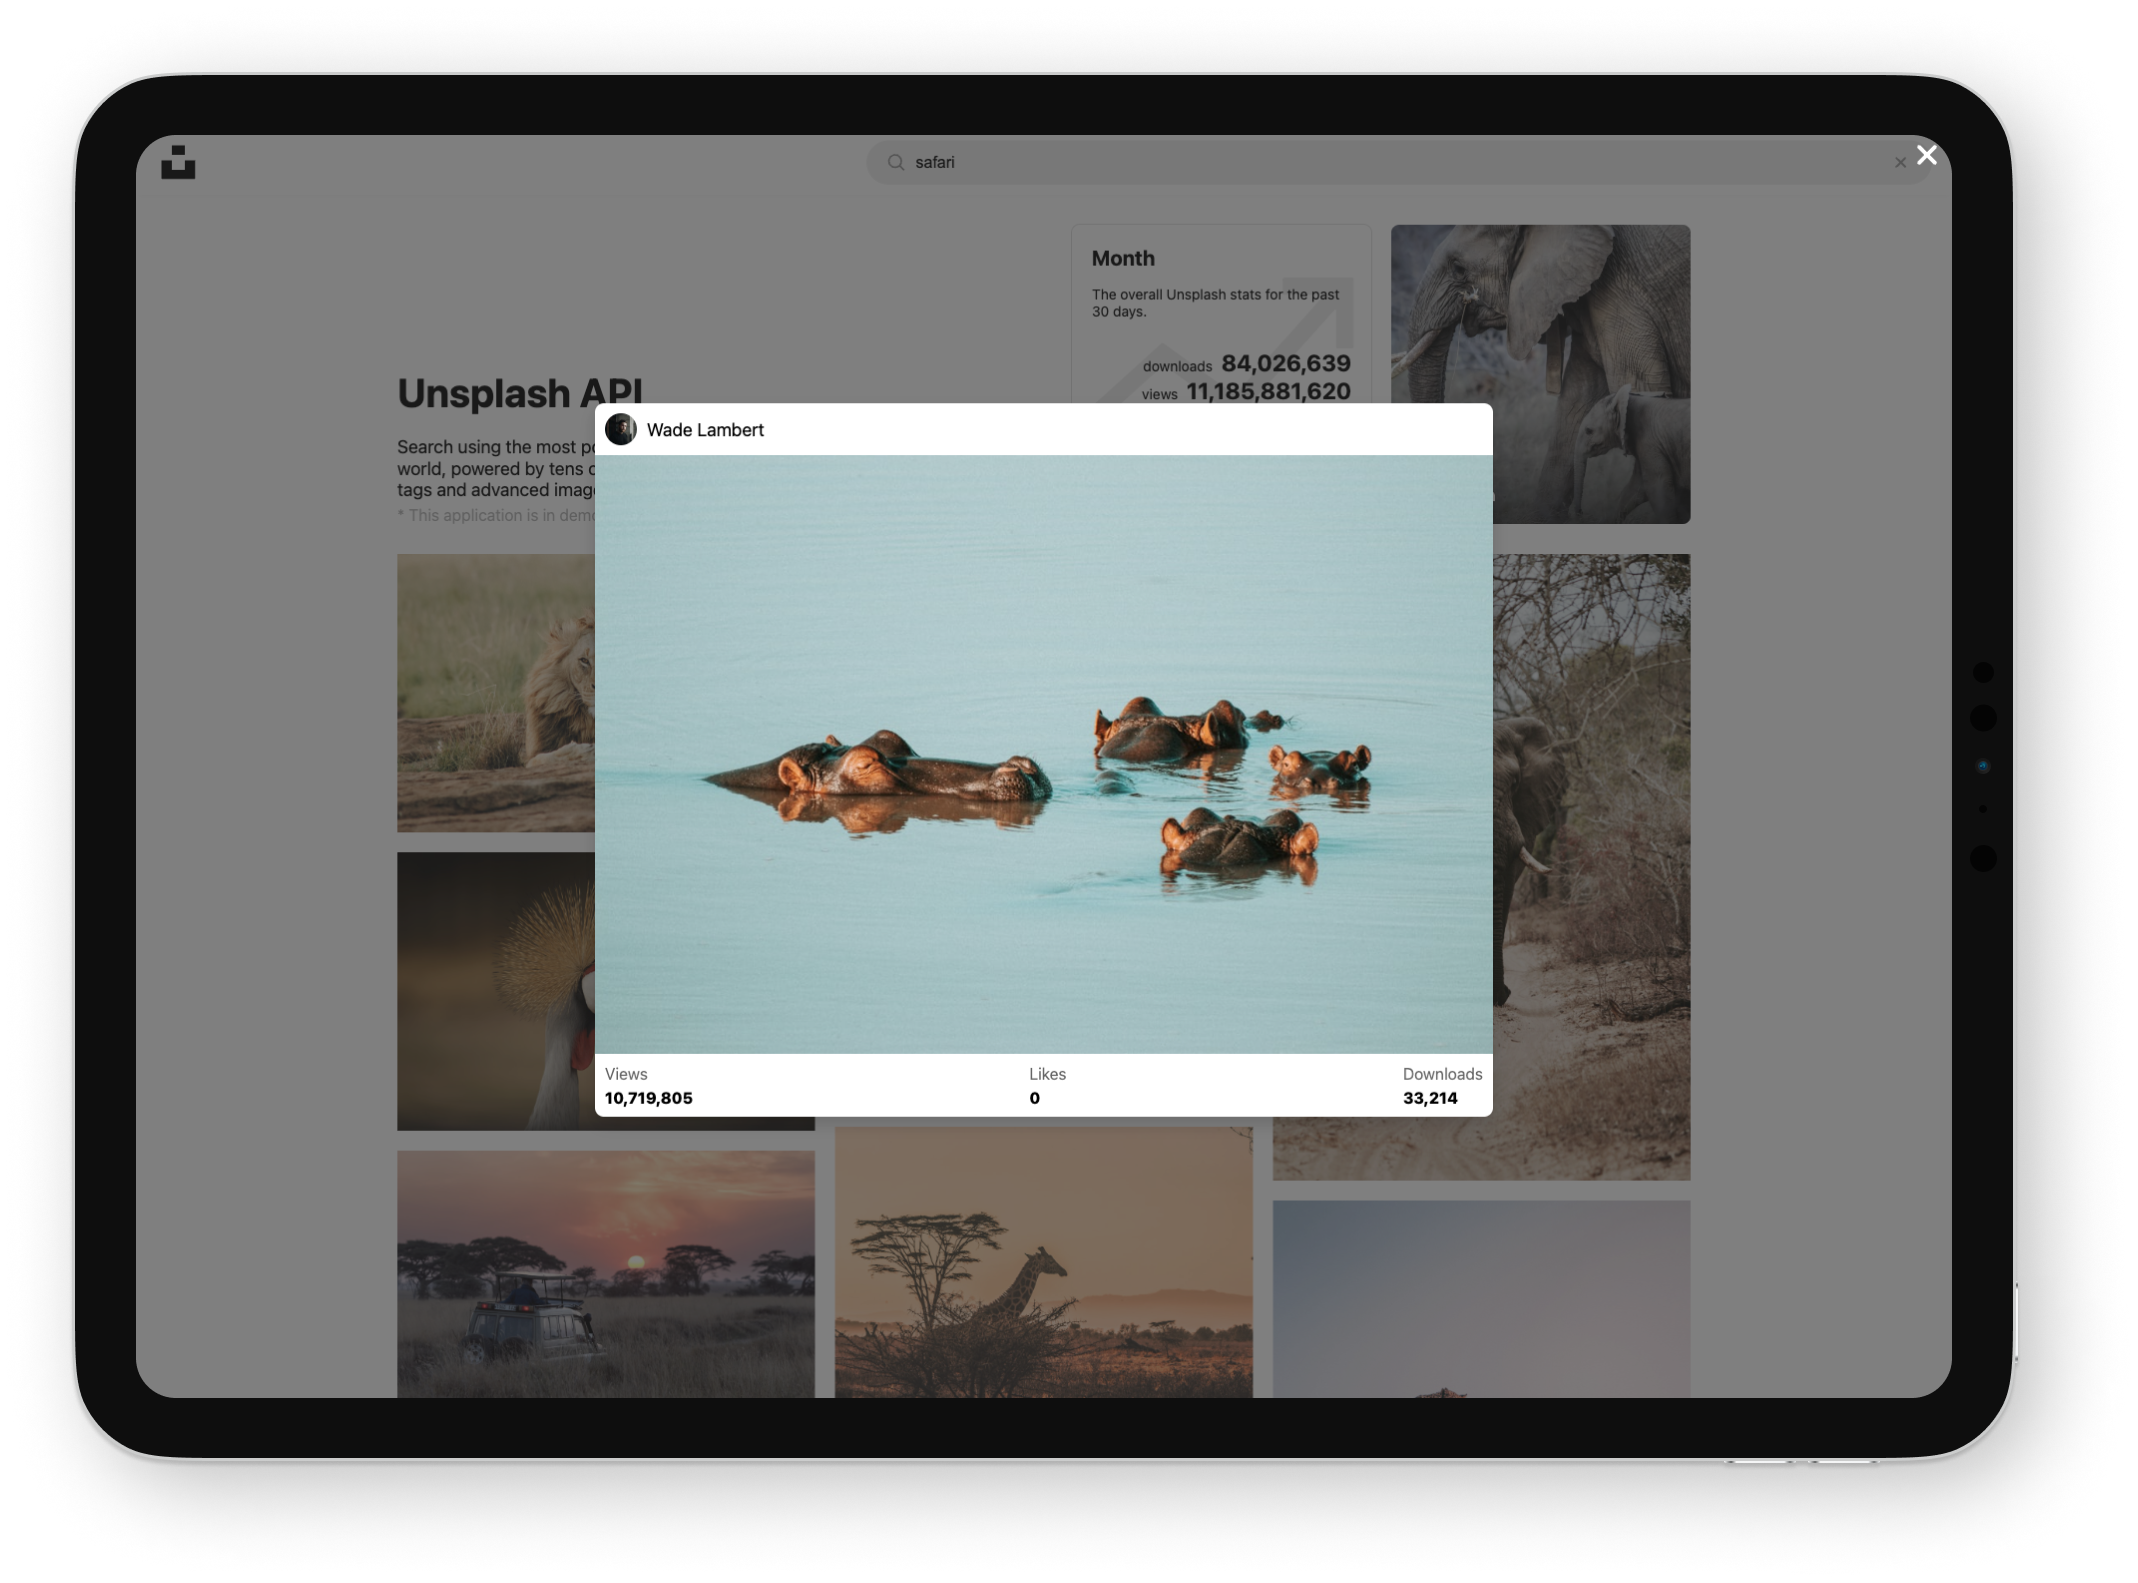
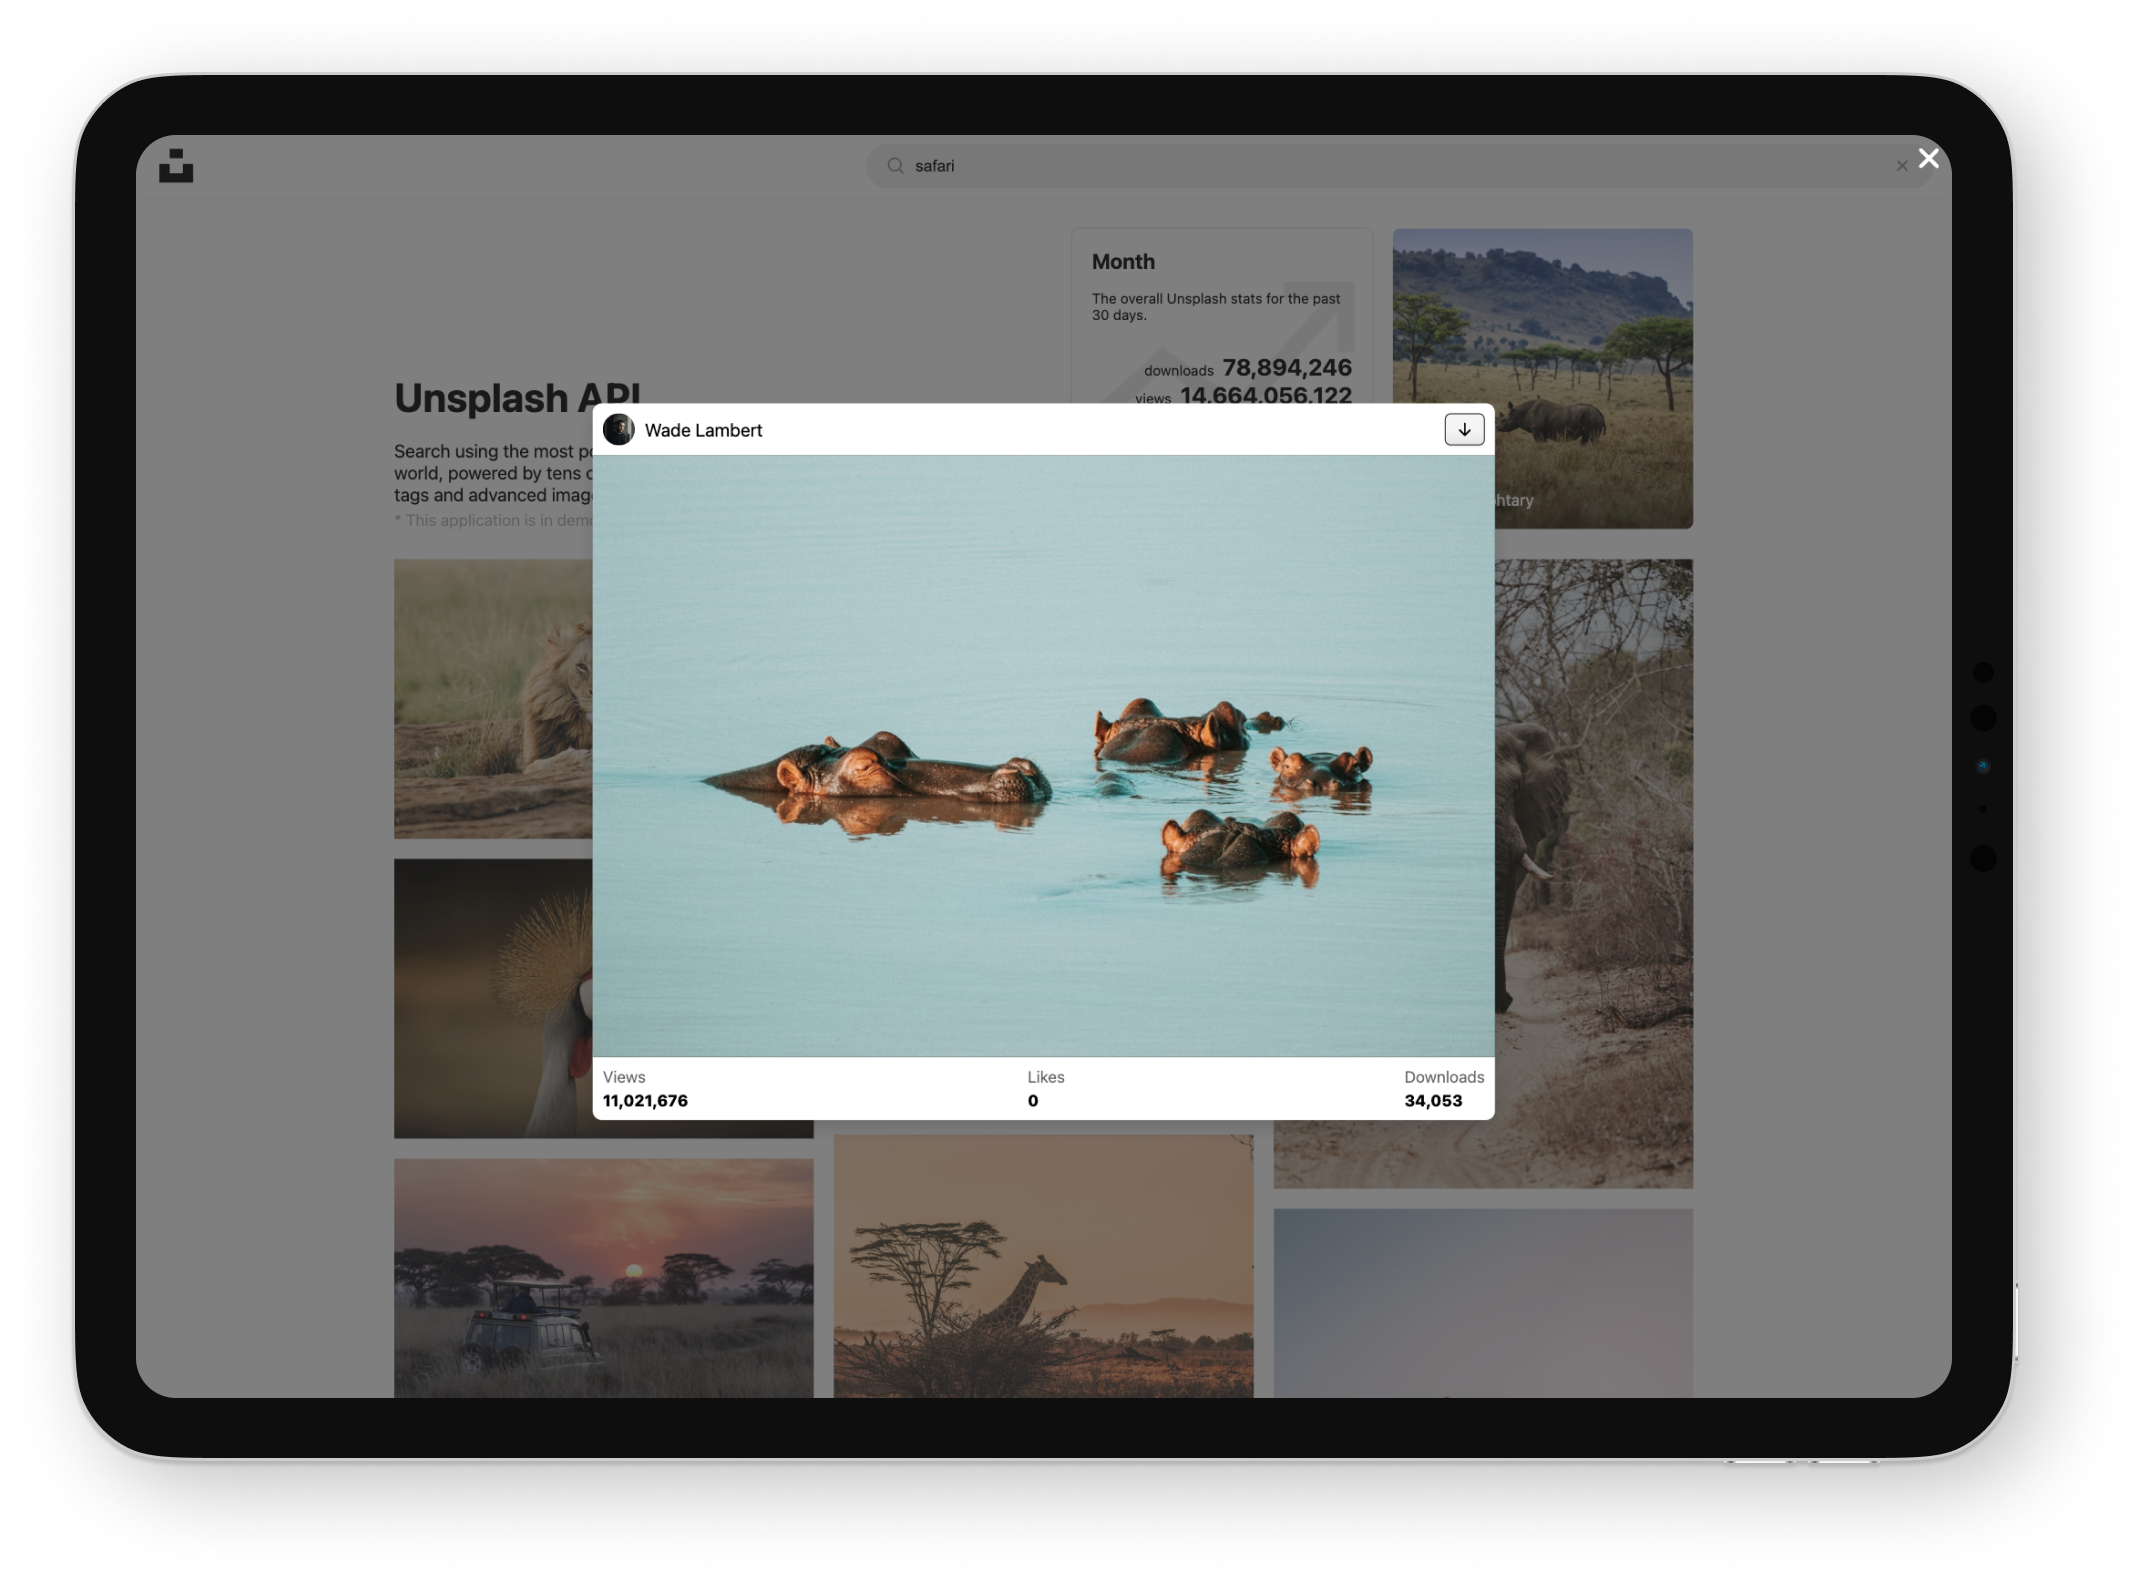
docs: update readme.md

diff --git a/README.md b/README.md
@@ -6,7 +6,7 @@ It fetches and displays images from Unsplash based on the user's search query. T
 
 <img width="869" alt="Devices Mockup." src="/assets/preview/modal-preview.png">
 
-User may get the image with a download button on hover to the thumbnail or open a modal window with additional image information after clicking on the thumbnail.
+User may open a modal window with additional image information after clicking on the thumbnail and get the image with a download button.
 
 ### Technologies
 
